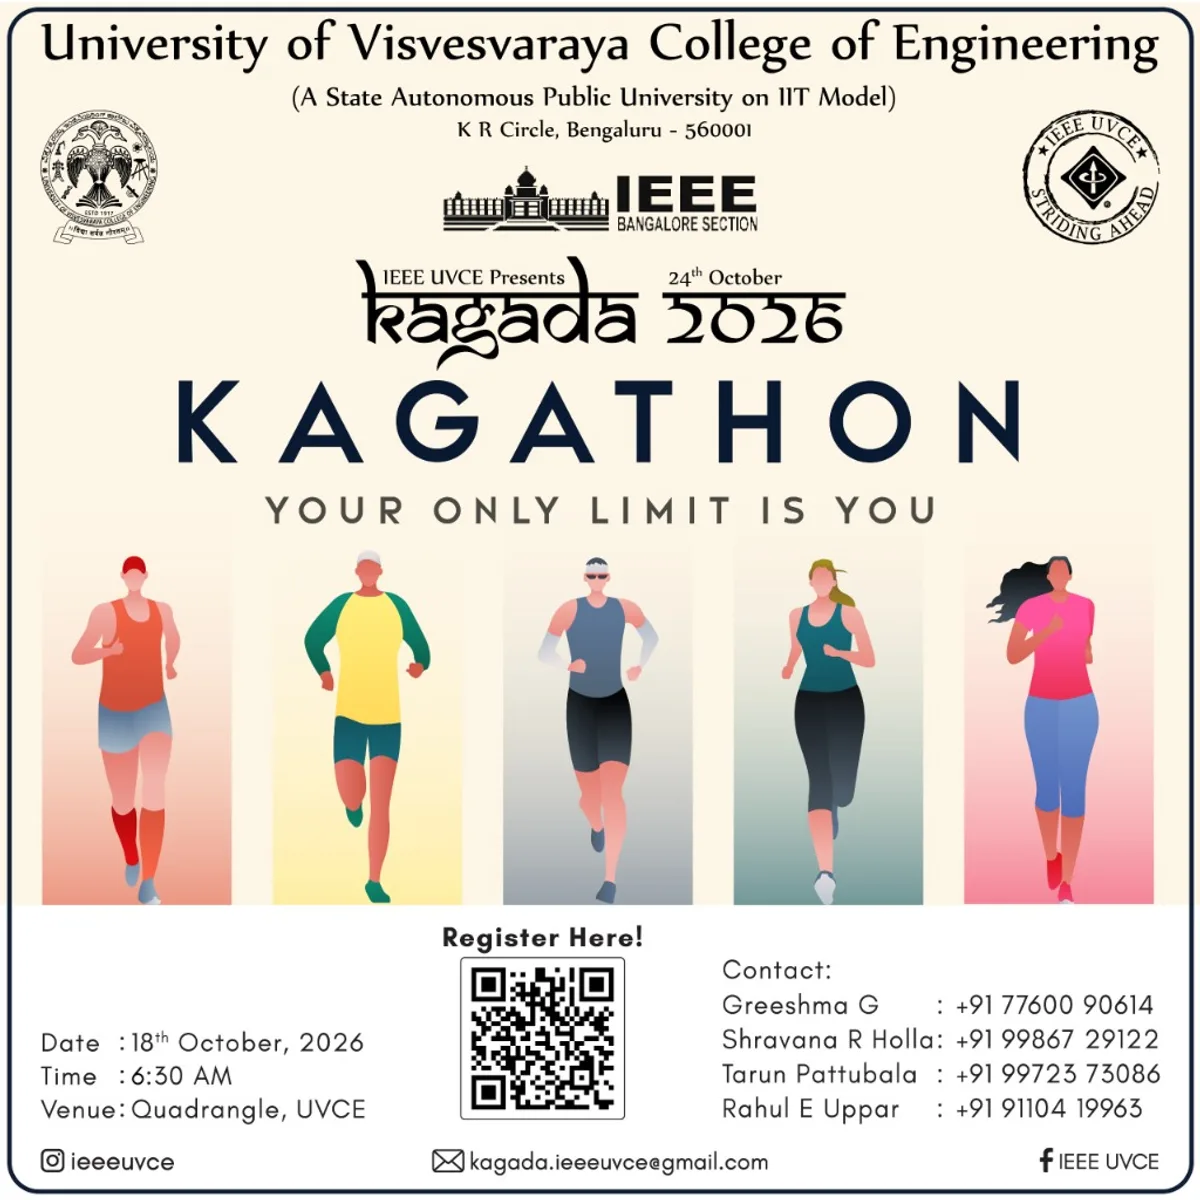
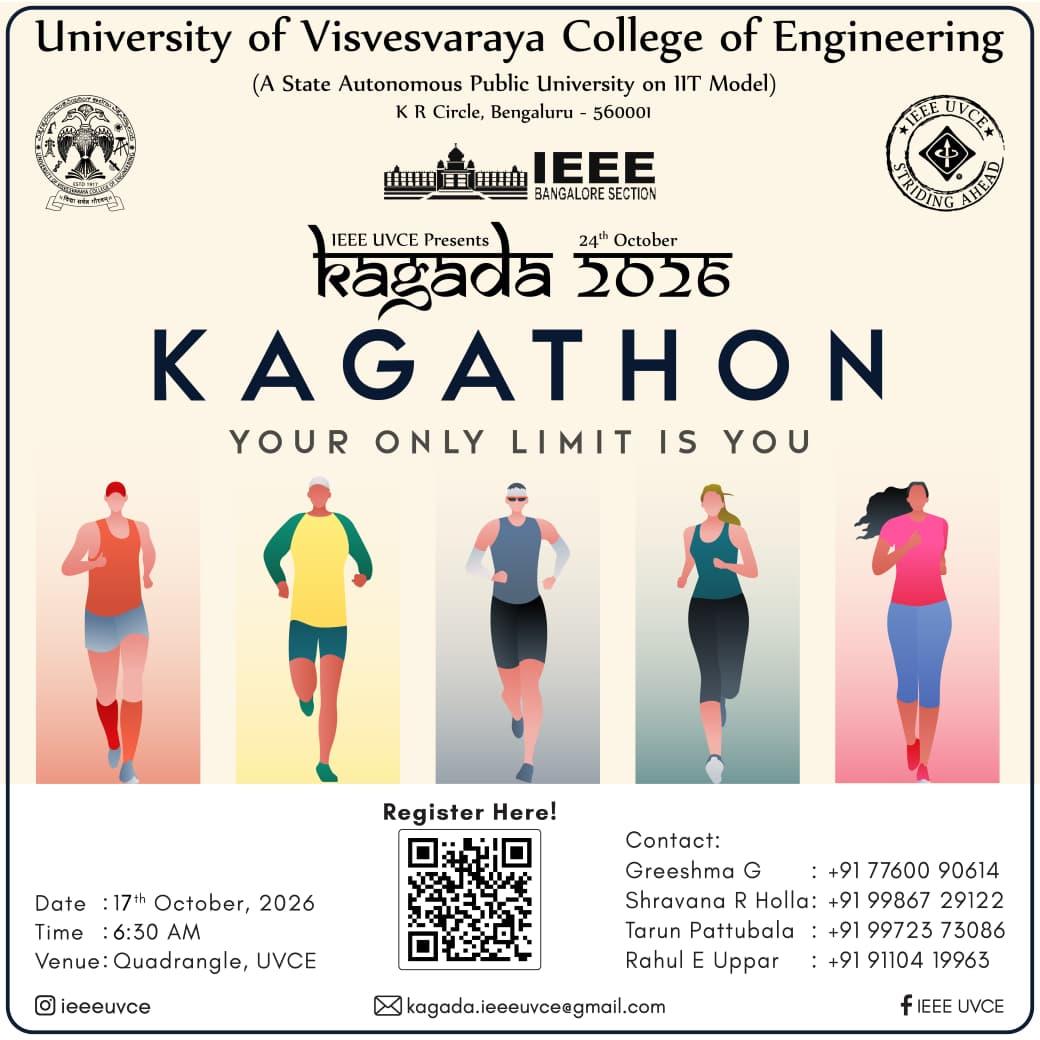
fix: update Kagathon date from 18th to 17th Oct and update poster

diff --git a/app/api/chat/route.ts b/app/api/chat/route.ts
@@ -26,7 +26,7 @@ PRESENTATION TRACKS (3 Main Category Tracks):
 KAGATHON 2026 — THE OFFICIAL CURTAIN RAISER:
 - Event Name: Kagathon 2026 (Annual mini-marathon & festive celebration acting as the official curtain raiser for KAGADA 2026)
 - Tagline: "Your Only Limit Is You" / "Run the Beat. Feel the Thrill."
-- Date: 18th October, 2026
+- Date: 17th October, 2026
 - Time: 6:30 AM 
 - Venue: Quadrangle, University Visvesvaraya College of Engineering (UVCE), K.R. Circle, Bengaluru, Karnataka 560001
 - Overview: A high-energy morning mini-marathon & celebration at sunrise in the UVCE Quadrangle. It serves as the official curtain raiser marking the grand beginning of KAGADA 2026.
@@ -172,7 +172,7 @@ export async function POST(req: Request) {
 
     // Fallback: Local Instant KAGADA 2026 Knowledge Engine
     const lastUserMsgLower = userMessage.toLowerCase();
-    let localReply = "KAGADA 2026 is the 22nd Annual National-Level Technical Student Conference conducted by IEEE UVCE on 24th October, 2026 at UVCE KR Circle, Bengaluru. Kagathon (the official curtain raiser) takes place on 18th October, 2026 at 6:30 AM at the UVCE Quadrangle. Feel free to ask about Kagathon, tracks, registration, or prize pool!";
+    let localReply = "KAGADA 2026 is the 22nd Annual National-Level Technical Student Conference conducted by IEEE UVCE on 24th October, 2026 at UVCE KR Circle, Bengaluru. Kagathon (the official curtain raiser) takes place on 17th October, 2026 at 6:30 AM at the UVCE Quadrangle. Feel free to ask about Kagathon, tracks, registration, or prize pool!";
 
     const isKagathonQuery =
       lastUserMsgLower.includes("kagathon") ||
@@ -188,7 +188,7 @@ export async function POST(req: Request) {
       if (lastUserMsgLower.includes("t-shirt") || lastUserMsgLower.includes("tshirt")) {
         localReply = "**KAGATHON 2026 T-Shirt Information**\n\n• **T-Shirt Registration Deadline**: 8th October, 2026\n• Participants registered by this date receive official Kagathon T-shirts.\n• **Final Event Registration Deadline**: 13th October, 2026 (11:59 PM)\n• **Register Here**: [https://docs.google.com/forms/d/e/1FAIpQLSc9achR9MEk32EWJss9yast69FnfrTLvzRGg9QVZ3i8QCSB_A/viewform](https://docs.google.com/forms/d/e/1FAIpQLSc9achR9MEk32EWJss9yast69FnfrTLvzRGg9QVZ3i8QCSB_A/viewform)";
       } else if (lastUserMsgLower.includes("deadline") || lastUserMsgLower.includes("last date")) {
-        localReply = "**KAGATHON 2026 Registration Deadlines**\n\n• **T-Shirt Registration Deadline**: 8th October, 2026\n• **Final Registration Deadline**: 13th October, 2026 at 11:59 PM\n• **Event Date**: 18th October, 2026 (6:30 AM at UVCE Quadrangle)\n• **Register Now**: [https://docs.google.com/forms/d/e/1FAIpQLSc9achR9MEk32EWJss9yast69FnfrTLvzRGg9QVZ3i8QCSB_A/viewform](https://docs.google.com/forms/d/e/1FAIpQLSc9achR9MEk32EWJss9yast69FnfrTLvzRGg9QVZ3i8QCSB_A/viewform)";
+        localReply = "**KAGATHON 2026 Registration Deadlines**\n\n• **T-Shirt Registration Deadline**: 8th October, 2026\n• **Final Registration Deadline**: 13th October, 2026 at 11:59 PM\n• **Event Date**: 17th October, 2026 (6:30 AM at UVCE Quadrangle)\n• **Register Now**: [https://docs.google.com/forms/d/e/1FAIpQLSc9achR9MEk32EWJss9yast69FnfrTLvzRGg9QVZ3i8QCSB_A/viewform](https://docs.google.com/forms/d/e/1FAIpQLSc9achR9MEk32EWJss9yast69FnfrTLvzRGg9QVZ3i8QCSB_A/viewform)";
       } else if (
         lastUserMsgLower.includes("register") ||
         lastUserMsgLower.includes("link") ||
@@ -204,18 +204,18 @@ export async function POST(req: Request) {
         lastUserMsgLower.includes("location") ||
         lastUserMsgLower.includes("place")
       ) {
-        localReply = "**KAGATHON 2026 Venue & Timing**\n\n• **Venue**: Quadrangle, University Visvesvaraya College of Engineering (UVCE), K.R. Circle, Bengaluru, Karnataka 560001\n• **Date**: 18th October, 2026\n• **Time**: 6:30 AM (Sunrise)\n• **Register Online**: [https://docs.google.com/forms/d/e/1FAIpQLSc9achR9MEk32EWJss9yast69FnfrTLvzRGg9QVZ3i8QCSB_A/viewform](https://docs.google.com/forms/d/e/1FAIpQLSc9achR9MEk32EWJss9yast69FnfrTLvzRGg9QVZ3i8QCSB_A/viewform)";
+        localReply = "**KAGATHON 2026 Venue & Timing**\n\n• **Venue**: Quadrangle, University Visvesvaraya College of Engineering (UVCE), K.R. Circle, Bengaluru, Karnataka 560001\n• **Date**: 17th October, 2026\n• **Time**: 6:30 AM (Sunrise)\n• **Register Online**: [https://docs.google.com/forms/d/e/1FAIpQLSc9achR9MEk32EWJss9yast69FnfrTLvzRGg9QVZ3i8QCSB_A/viewform](https://docs.google.com/forms/d/e/1FAIpQLSc9achR9MEk32EWJss9yast69FnfrTLvzRGg9QVZ3i8QCSB_A/viewform)";
       } else {
-        localReply = "**KAGATHON 2026 — The Official Curtain Raiser for KAGADA 2026**\n\n*Tagline: \"Run the Beat. Feel the Thrill. / Your Only Limit Is You\"*\n\n• **Date**: 18th October, 2026\n• **Time**: 6:30 AM (Sunrise)\n• **Venue**: Quadrangle, UVCE, K.R. Circle, Bengaluru\n• **Experience & Inclusions**: High-energy sunrise run, live DJ music, dance, fun games, delicious breakfast treats, and official participation certificates for all runners!\n• **T-Shirt Deadline**: 8th October, 2026\n• **Final Registration Deadline**: 13th October, 2026 (11:59 PM)\n• **Official Registration Link**: [https://docs.google.com/forms/d/e/1FAIpQLSc9achR9MEk32EWJss9yast69FnfrTLvzRGg9QVZ3i8QCSB_A/viewform](https://docs.google.com/forms/d/e/1FAIpQLSc9achR9MEk32EWJss9yast69FnfrTLvzRGg9QVZ3i8QCSB_A/viewform)";
+        localReply = "**KAGATHON 2026 — The Official Curtain Raiser for KAGADA 2026**\n\n*Tagline: \"Run the Beat. Feel the Thrill. / Your Only Limit Is You\"*\n\n• **Date**: 17th October, 2026\n• **Time**: 6:30 AM (Sunrise)\n• **Venue**: Quadrangle, UVCE, K.R. Circle, Bengaluru\n• **Experience & Inclusions**: High-energy sunrise run, live DJ music, dance, fun games, delicious breakfast treats, and official participation certificates for all runners!\n• **T-Shirt Deadline**: 8th October, 2026\n• **Final Registration Deadline**: 13th October, 2026 (11:59 PM)\n• **Official Registration Link**: [https://docs.google.com/forms/d/e/1FAIpQLSc9achR9MEk32EWJss9yast69FnfrTLvzRGg9QVZ3i8QCSB_A/viewform](https://docs.google.com/forms/d/e/1FAIpQLSc9achR9MEk32EWJss9yast69FnfrTLvzRGg9QVZ3i8QCSB_A/viewform)";
       }
     } else if (lastUserMsgLower.includes("when") || lastUserMsgLower.includes("date") || lastUserMsgLower.includes("time")) {
-      localReply = "**Important Dates for KAGADA 2026 & Kagathon**:\n\n• **Kagathon (Curtain Raiser)**: 18th October, 2026 at 6:30 AM (Sunrise) at UVCE Quadrangle\n  - T-Shirt Deadline: 8th October, 2026\n  - Final Registration Deadline: 13th October, 2026 (11:59 PM)\n• **KAGADA 2026 National Conference**: 24th October, 2026 at UVCE, Bengaluru.";
+      localReply = "**Important Dates for KAGADA 2026 & Kagathon**:\n\n• **Kagathon (Curtain Raiser)**: 17th October, 2026 at 6:30 AM (Sunrise) at UVCE Quadrangle\n  - T-Shirt Deadline: 8th October, 2026\n  - Final Registration Deadline: 13th October, 2026 (11:59 PM)\n• **KAGADA 2026 National Conference**: 24th October, 2026 at UVCE, Bengaluru.";
     } else if (lastUserMsgLower.includes("where") || lastUserMsgLower.includes("venue") || lastUserMsgLower.includes("location") || lastUserMsgLower.includes("map")) {
-      localReply = "Both **KAGADA 2026** and **Kagathon** will take place at:\n\n**University Visvesvaraya College of Engineering (UVCE)**\nK.R. Circle, Bengaluru, Karnataka 560001.\n\n• Kagathon starts at the **UVCE Quadrangle** on 18th October at 6:30 AM.";
+      localReply = "Both **KAGADA 2026** and **Kagathon** will take place at:\n\n**University Visvesvaraya College of Engineering (UVCE)**\nK.R. Circle, Bengaluru, Karnataka 560001.\n\n• Kagathon starts at the **UVCE Quadrangle** on 17th October at 6:30 AM.";
     } else if (lastUserMsgLower.includes("prize") || lastUserMsgLower.includes("money") || lastUserMsgLower.includes("reward") || lastUserMsgLower.includes("cash")) {
       localReply = "KAGADA 2026 features an overall Total Prize Pool of **₹40,000** in cash prizes distributed across Paper, Poster, and Project presentation tracks. All participants in both KAGADA and Kagathon receive official Certificates of Participation.";
     } else if (lastUserMsgLower.includes("track") || lastUserMsgLower.includes("event") || lastUserMsgLower.includes("paper") || lastUserMsgLower.includes("poster") || lastUserMsgLower.includes("project")) {
-      localReply = "KAGADA 2026 has 3 main presentation tracks:\n1. **Paper Presentation**: [Register here](https://docs.google.com/forms/d/e/1FAIpQLSdBk8QFZDtIpaJF-SrUZRJpqAYrtu2XBMA1SdCmV1RMqO94Tg/viewform) (Fee: ₹200)\n2. **Poster Presentation**: [Register here](https://docs.google.com/forms/d/e/1FAIpQLSdyNPuQPJcNduxHnwQ_qViIU9b2gWXlivIrlg-BiId2dAYXdA/viewform) (Fee: ₹150)\n3. **Project Presentation**: [Register here](https://docs.google.com/forms/d/e/1FAIpQLScnegAPfJu4oTQozWFgVV2yQKhcIucp47r9RRh04oLKDTBmgA/viewform?usp=send_form) (Fee: ₹180)\n\nPlus **Kagathon 2026** (the official curtain raiser on 18th October) and two humanitarian initiatives: *Ottige Kaliyona* and *Food for Cause*.";
+      localReply = "KAGADA 2026 has 3 main presentation tracks:\n1. **Paper Presentation**: [Register here](https://docs.google.com/forms/d/e/1FAIpQLSdBk8QFZDtIpaJF-SrUZRJpqAYrtu2XBMA1SdCmV1RMqO94Tg/viewform) (Fee: ₹200)\n2. **Poster Presentation**: [Register here](https://docs.google.com/forms/d/e/1FAIpQLSdyNPuQPJcNduxHnwQ_qViIU9b2gWXlivIrlg-BiId2dAYXdA/viewform) (Fee: ₹150)\n3. **Project Presentation**: [Register here](https://docs.google.com/forms/d/e/1FAIpQLScnegAPfJu4oTQozWFgVV2yQKhcIucp47r9RRh04oLKDTBmgA/viewform?usp=send_form) (Fee: ₹180)\n\nPlus **Kagathon 2026** (the official curtain raiser on 17th October) and two humanitarian initiatives: *Ottige Kaliyona* and *Food for Cause*.";
     } else if (lastUserMsgLower.includes("register") || lastUserMsgLower.includes("fee") || lastUserMsgLower.includes("cost") || lastUserMsgLower.includes("participate") || lastUserMsgLower.includes("apply")) {
       localReply = "• **Kagathon 2026**: Registrations are currently LIVE! [Register for Kagathon](https://docs.google.com/forms/d/e/1FAIpQLSc9achR9MEk32EWJss9yast69FnfrTLvzRGg9QVZ3i8QCSB_A/viewform) (T-Shirt deadline: 8th Oct, Final deadline: 13th Oct).\n• **Paper Presentation**: [Register for Paper Track](https://docs.google.com/forms/d/e/1FAIpQLSdBk8QFZDtIpaJF-SrUZRJpqAYrtu2XBMA1SdCmV1RMqO94Tg/viewform) (Fee: ₹200)\n• **Poster Presentation**: [Register for Poster Track](https://docs.google.com/forms/d/e/1FAIpQLSdyNPuQPJcNduxHnwQ_qViIU9b2gWXlivIrlg-BiId2dAYXdA/viewform) (Fee: ₹150)\n• **Project Presentation**: [Register for Project Track](https://docs.google.com/forms/d/e/1FAIpQLScnegAPfJu4oTQozWFgVV2yQKhcIucp47r9RRh04oLKDTBmgA/viewform?usp=send_form) (Fee: ₹180)";
     } else if (lastUserMsgLower.includes("contact") || lastUserMsgLower.includes("chair") || lastUserMsgLower.includes("organizer") || lastUserMsgLower.includes("phone") || lastUserMsgLower.includes("email")) {

diff --git a/components/features/AIChatCard.tsx b/components/features/AIChatCard.tsx
@@ -197,7 +197,7 @@ export default function AIChatCard({ className, isVisible = true }: AIChatCardPr
         ...prev,
         {
           sender: "ai",
-          text: "KAGADA 2026 is scheduled for 24th October 2026, and the Kagathon Curtain Raiser is on 18th October 2026 at UVCE! Ask me about tracks (Paper, Poster, Project), Kagathon registration, or the ₹40,000 prize pool!",
+          text: "KAGADA 2026 is scheduled for 24th October 2026, and the Kagathon Curtain Raiser is on 17th October 2026 at UVCE! Ask me about tracks (Paper, Poster, Project), Kagathon registration, or the ₹40,000 prize pool!",
         },
       ]);
     } finally {

diff --git a/components/sections/KagathonSection.tsx b/components/sections/KagathonSection.tsx
@@ -59,7 +59,7 @@ export const KagathonSection = memo(function KagathonSection() {
                   <span className="w-2 h-2 rounded-full bg-[#5A182B] shrink-0" />
                   <span>
                     <strong className="font-roboto-mono uppercase text-[#5A182B] tracking-wide text-xs sm:text-sm">Date:</strong>{" "}
-                    <span className="font-semibold text-slate-900">18th October, 2026</span>
+                    <span className="font-semibold text-slate-900">17th October, 2026</span>
                   </span>
                 </li>
                 <li className="flex items-center gap-2.5">
